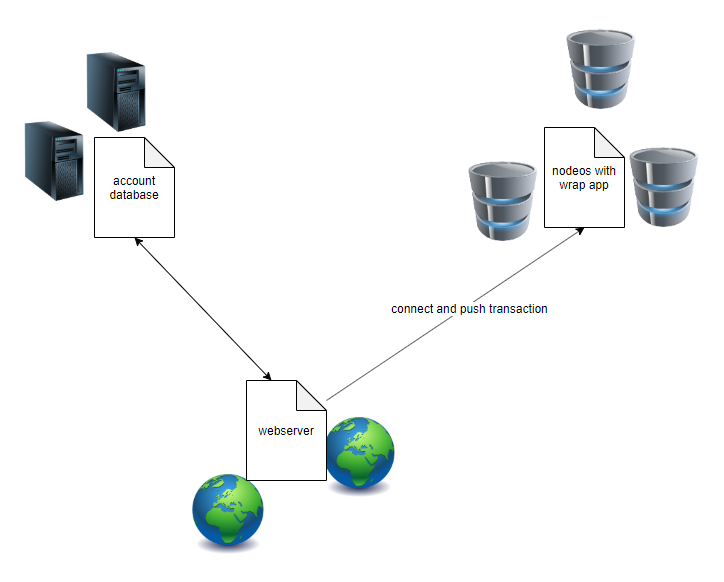
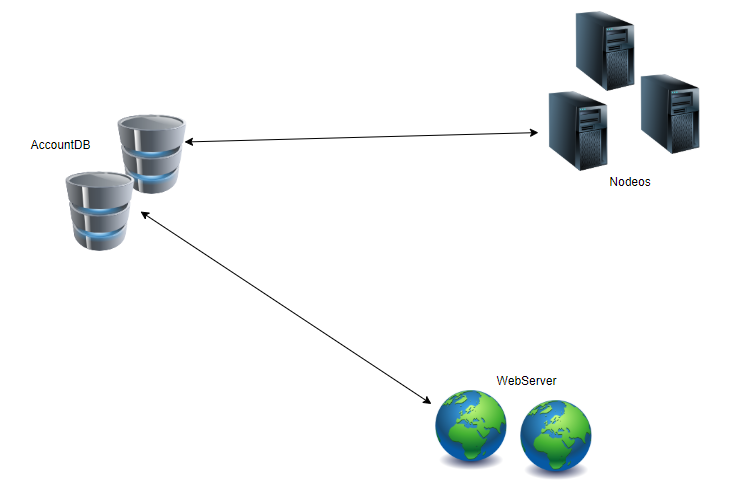
kjf

diff --git a/docs/design.md b/docs/design.md
@@ -1,3 +1,113 @@
+## 连接器
+连接器是一个独立的进程，它将帮助更新和维护资源定位表，并帮助调度客户端的连接。资源定位表包含Union中每个服务的所有信息。因为整个网络是动态的，所以这个文件也会随时间变化。连接器将帮助进行资源定位表的增、删、改、查。资源定位表将按IP、服务类型、端口、剩余连接、位置等描述服务。资源定位表内容如下：
+
+```
+resource_mains:    //主资源文件
+{
+    ip_x: {
+        ip:
+        server_type: []
+        remain_connections: []
+        score:
+        location:
+    }    
+}
+locations:   //下面的数据结构帮助更快的搜索资源
+{
+    location_x: {  //是该按国家进行划分吗？ 待定
+        ip:
+    }
+}
+
+scores: [1st ip, 2ed ip, 3rd ip, 4th ip, ...]  //前100个性能最好的主机
+
+server_types:
+{
+    type_x: [ip_x]
+}
+
+remainconnections:{
+    unremain: [],
+    remain10: [],
+    remain100: [],
+    remain1000: [],
+    remain10000: [],
+    unlimit: []
+}
+
+```
+
+连接器将自动选择前100个SOCRE最高的计算机作为主节点。score越高意味着电脑在各种操作中都很快。经过一段时间后，普通节点将随机选择一个主节点来更新其资源定位表（如果需要）。
+
+***删除失败的节点***
+
+有两种状况，一个是失效节点是主节点，另一个是失效节点是普通节点。
+
+*主节点故障*
+
+* 如果失败的节点是主节点，当普通节点周期性地请求其父节点维持心跳时（该节点先前连接的主节点是父节点），如果请求被阻止，该节点将选择另一个主节点并将被阻止的主节点（原 父节点）报告给所选的主节点，然后所选的主节点将检查这个被阻塞的主节点状态，并更新资源定位表。为了实现这一点，普通节点会将曾连接的主节点作为其父节点来维护。
+
+*普通节点故障*
+
+* 主节点应该维护一个包含其所有子节点及其最新连接时间的表。如果心跳时间超出范围，父节点将尝试连接此节点并进行检查。如果失败，删除它，更新资源定位表。
+
+***添加新节点***
+
+* 如果一个新节点想要加入网络，它必须至少知道这个网络的一个节点的地址（IP，端口）。首先，它连接到该地址，并检索资源定位表。其次，根据当前资源定位表选择一个主节点，并连接到主节点。最后，在主节点接收到这些信息后，它将更新资源定位表。
+
+***更新资源定位表***
+
+* 只有主节点可以更新资源定位表。当一个主节点的资源定位表更新后，它将广播到所有主节点，所有主节点进行更新。当一个主节点接收到一个主节点的更新广播时，必须检查更新的节点是否有效，如果一个主节点在1小时内广播10次无效的节点，该节点将被放入一个主节点黑名单中一天。如果一个正常的节点在1小时内重新连接（不稳定）10次，它将在1小时内被此网络阻止。
+
+***路由逻辑***
+
+* 假设一个主节点连接失败，它将被从主节点列表中删除。然后选择一个新节点添加到主节点列表中。首先，新的主节点将没有子节点，因此没有父节点的普通节点将首先选择子节点少的主节点连接。当所有主节点的子节点数量达到一个大致的平衡是，我们就要考虑到主节点与子节点的距离问题。因为子节点与主节点之间的通信是很频繁的，所有选择较近的节点做为主节点是很有必要的。
+
+* 主节点将有自己的容量。所有接收连接的主节点都应该保持某种平衡。应该有一个函数来计算主节点连接的中值点。连接首先遵循就近原则，然后再挑选链接数少的。假设我们有一个函数可以计算正常节点连接到的所有主节点的效率。或者说是，延误率或损失率或它们两者的综合的一个评分，这个评分越低越好或越大越好。这时普通节点应该总是选择最好的主节点连接。算法将是：
+
+```
+choose_best_main_node(current_node):
+    efficients = []
+    for node in main_node_list:
+        efficents.push(comprehensive_efficient(current_node, node) )
+    index = maxIndexOf(efficients)
+    return efficients[index]
+```
+
+### 连接器流程设计
+`增  删   改   查`
+
+`选择100个资源最优的节点作为主节点`
+
+`每个主节点有n个子节点，每个子节点选取连接最快的主节点作为主节点。主节点才有增删改的权力。`
+
+流程 1: 
+* 初始化节点， 加载配置文件，获取本机的配置信息、网络宽带等信息，配置文件描述了服务类型、服务端口等等信息
+
+
+流程 2:  函数  connect_2_network
+* 检查自身，获取相关信息  ...正在做
+* 连接上union网络，获取网络上的资源配置表   ... 正在做
+* 选择合适的主节点连接，进一步获取信息
+* 看看自己是否可以作为主节点
+
+流程3:
+* 周期性的上传本节点信息到自己的主节点
+* 周期性与主节点同步资源定位表信息
+* 如果主节点阻塞， 更换自己的主节点，并且告诉新的主节点 原主节点阻塞
+
+流程4:
+* 主节点检查自己的子节点心跳，剔除不活跃的子节点，并向其它主节点同步剔除信息
+
+流程5:
+* 主节点之间交互信息
+
+流程6: 
+* 删除老的主节点，选择新的主节点
+
+
+
+
 ## 交易行的设计（法币）
 ----
 **难点**
@@ -15,26 +125,19 @@
 
 主网站 = {数据库管理网站、历史币价采集网站、 网页提供网站（用户接口）、区块链交互端网站}
 
-## union官网与区块链的交互
-
-在区块链中，keosd，cleos，nodeos的关系如下图：
-
-<img src="./imgs/eos_re.png" />
-
-这三者关系的说明在eos探秘中有一些提及，这里不再赘述。类似的，我做出下面的设计来完成union与nodeos的交互：
+在EOS系统中，最主要的是Nodeos，Cleos 与 Keosd都是辅助功能。在Union系统中，AccountDB其实相当于同时充当了Cleos与Keosd的功能。AccountDB、Nodeos、Webserver的关系如下图所示： 
 
 <img src="./imgs/union-web-nodeos.png" />
 
-webserver 相当于cleos， account database相当于keosd。
+AccountDB储存了大量用户的私钥信息，所以私钥不适合进行网络传输，而应该直接在本地进行签名。所以，交易的流程大概是这样的： 用户登录WebServer，填写交易信息，交易推送到AccountDB进行签名，此时如果用户的登录信息正确，则找到正确的私钥进行签名。AccountDB再调用Nodeos的RPC Api接口，将数据写入到区块链上。
 
-### Nodeos With Wrap
+目前暂时只提供这一条线吧，考虑再三，还是要把WebServer的代码用javascript，为了方便以后的扩展。因为理论上，用户也可以直接保存自己的私钥信息，而不是借助AccountDB。也就是说应该有一条线是WebServer直接与Nodeos交互的，但这是以后再扩展的工作了。
 
-在运行nodeos的主机上会运行一个wrap程序用于直接与nodeos交互，交互方式是通过nodeos提供的<a href="https://developers.eos.io/eosio-nodeos/reference">rpc api</a>. wrap程序一方面实现connector的一些功能，另一方面要解密webserver的消息从而获取与nodeos交互的有效信息。
-
-
-### Account DataBase
+### Account DataBase 
 
 数据库服务部分是由多台主机构成，当然不会比webserver的主机多。每台主机都运行数据库服务，同时也有一个wrap，实现connector功能，还实现与webserver的交互。这个数据库主要保存了账号的私钥部分，当然保存方式是把私钥截断，并与很多无效数据进行混淆。只有webserver提供了可靠的信息，才能从浩如烟海的数据堆中拼凑出正确的私钥。因此，对Account Database的攻击是无效的。
+
+AccountDB集成了Nodeos的RPC Api，也就是在AccountDB里直接会进行交易签名，然后对Nodeos进行远程调用，目前采用的是nodejs，也就是采用官方的SDK， eosjs。
 
 ### WebServer
 用户登录到webserver后，要想使用钱包转账等功能，会被要求提供另一个账号和密码，该密码是在Account DataBase中找到正确信息的关键。一般的，webserver的常规数据库根据用户账号密码会保存一部分的Account Database中的私钥获取线索。另一部分需要用户输入。

diff --git a/docs/readme.md b/docs/readme.md
@@ -1,24 +1,3 @@
-# 前期配置
-
-## git 安装
-
-* 简要的说 git 的作用： 
-
-    我们在开发代码时，想象一个大一点的项目，每天就会都有一些更改。假如某一天改着改着突然发现出现了一个灾难性的问题。这时候一般就会想着和原先没有这个大问题时候的代码做一个对比，发现改动的地方，查找引发这个灾难的地方。
-
-    git 就提供了这样的功能，git在每次提交（commit）代码的时候，都会自己隐藏的建立代码的版本信息，每次commit就是一个版本。然后就可以用git进行各种版本对比，版本回退等等工作。
-
-    还有，就是在多人开发一个项目的时候，git也会帮助处理开放中的改动冲突，对代码进行合并等。举例说，A开发sk.py 文件， B开发sjgskjg.js 文件，他们提交到同一个地方的更改时，git就帮助合并他们的更改，保证项目都是最新的。
-
-<a href="https://www.jianshu.com/p/414ccd423efc">git 安装教程</a>
-
-<a href="https://www.cnblogs.com/tugenhua0707/p/4050072.html">git 使用教程</a>
-
-安装完成后，就可以用git bash 里的 ssh 命令登录我们的远程服务了
-登录命令是 ssh root@78.141.190.51
-之后输入密码就行。
-
-
 # Union 的设计逻辑
 
 ## 定义
@@ -53,112 +32,7 @@ Union采用的是EOS.IO系统，考虑到为了维持用户的可能性增长，
 
 从设计上，区块链暂时只需要搭建起来接入整套系统就行，后继的开发会需要但是不是当前阶段所必须的，当前需要的功能eos大都自带了。其它的功能更多的主要是由官网提供，包括账号登录，基本信息展示。官网也是分布式的，没有区块链那么“分布”，官网和区块链的关系可以认为区块链只是实现了官网当中“管钱”的功能。
 
-## 连接器
-连接器是一个独立的进程，它将帮助更新和维护资源定位表，并帮助调度客户端的连接。资源定位表包含Union中每个服务的所有信息。因为整个网络是动态的，所以这个文件也会随时间变化。连接器将帮助进行资源定位表的增、删、改、查。资源定位表将按IP、服务类型、端口、剩余连接、位置等描述服务。资源定位表内容如下：
 
-```
-resource_mains:    //主资源文件
-{
-    ip_x: {
-        ip:
-        server_type: []
-        remain_connections: []
-        score:
-        location:
-    }    
-}
-locations:   //下面的数据结构帮助更快的搜索资源
-{
-    location_x: {  //是该按国家进行划分吗？ 待定
-        ip:
-    }
-}
-
-scores: [1st ip, 2ed ip, 3rd ip, 4th ip, ...]  //前100个性能最好的主机
-
-server_types:
-{
-    type_x: [ip_x]
-}
-
-remainconnections:{
-    unremain: [],
-    remain10: [],
-    remain100: [],
-    remain1000: [],
-    remain10000: [],
-    unlimit: []
-}
-
-```
-
-连接器将自动选择前100个SOCRE最高的计算机作为主节点。score越高意味着电脑在各种操作中都很快。经过一段时间后，普通节点将随机选择一个主节点来更新其资源定位表（如果需要）。
-
-***删除失败的节点***
-
-有两种状况，一个是失效节点是主节点，另一个是失效节点是普通节点。
-
-*主节点故障*
-
-* 如果失败的节点是主节点，当普通节点周期性地请求其父节点维持心跳时（该节点先前连接的主节点是父节点），如果请求被阻止，该节点将选择另一个主节点并将被阻止的主节点（原 父节点）报告给所选的主节点，然后所选的主节点将检查这个被阻塞的主节点状态，并更新资源定位表。为了实现这一点，普通节点会将曾连接的主节点作为其父节点来维护。
-
-*普通节点故障*
-
-* 主节点应该维护一个包含其所有子节点及其最新连接时间的表。如果心跳时间超出范围，父节点将尝试连接此节点并进行检查。如果失败，删除它，更新资源定位表。
-
-***添加新节点***
-
-* 如果一个新节点想要加入网络，它必须至少知道这个网络的一个节点的地址（IP，端口）。首先，它连接到该地址，并检索资源定位表。其次，根据当前资源定位表选择一个主节点，并连接到主节点。最后，在主节点接收到这些信息后，它将更新资源定位表。
-
-***更新资源定位表***
-
-* 只有主节点可以更新资源定位表。当一个主节点的资源定位表更新后，它将广播到所有主节点，所有主节点进行更新。当一个主节点接收到一个主节点的更新广播时，必须检查更新的节点是否有效，如果一个主节点在1小时内广播10次无效的节点，该节点将被放入一个主节点黑名单中一天。如果一个正常的节点在1小时内重新连接（不稳定）10次，它将在1小时内被此网络阻止。
-
-***路由逻辑***
-
-* 假设一个主节点连接失败，它将被从主节点列表中删除。然后选择一个新节点添加到主节点列表中。首先，新的主节点将没有子节点，因此没有父节点的普通节点将首先选择子节点少的主节点连接。当所有主节点的子节点数量达到一个大致的平衡是，我们就要考虑到主节点与子节点的距离问题。因为子节点与主节点之间的通信是很频繁的，所有选择较近的节点做为主节点是很有必要的。
-
-* 主节点将有自己的容量。所有接收连接的主节点都应该保持某种平衡。应该有一个函数来计算主节点连接的中值点。连接首先遵循就近原则，然后再挑选链接数少的。假设我们有一个函数可以计算正常节点连接到的所有主节点的效率。或者说是，延误率或损失率或它们两者的综合的一个评分，这个评分越低越好或越大越好。这时普通节点应该总是选择最好的主节点连接。算法将是：
-
-```
-choose_best_main_node(current_node):
-    efficients = []
-    for node in main_node_list:
-        efficents.push(comprehensive_efficient(current_node, node) )
-    index = maxIndexOf(efficients)
-    return efficients[index]
-```
-
-### 连接器流程设计
-`增  删   改   查`
-
-`选择100个资源最优的节点作为主节点`
-
-`每个主节点有n个子节点，每个子节点选取连接最快的主节点作为主节点。主节点才有增删改的权力。`
-
-流程 1: 
-* 初始化节点， 加载配置文件，获取本机的配置信息、网络宽带等信息，配置文件描述了服务类型、服务端口等等信息
-
-
-流程 2:  函数  connect_2_network
-* 检查自身，获取相关信息  ...正在做
-* 连接上union网络，获取网络上的资源配置表   ... 正在做
-* 选择合适的主节点连接，进一步获取信息
-* 看看自己是否可以作为主节点
-
-流程3:
-* 周期性的上传本节点信息到自己的主节点
-* 周期性与主节点同步资源定位表信息
-* 如果主节点阻塞， 更换自己的主节点，并且告诉新的主节点 原主节点阻塞
-
-流程4:
-* 主节点检查自己的子节点心跳，剔除不活跃的子节点，并向其它主节点同步剔除信息
-
-流程5:
-* 主节点之间交互信息
-
-流程6: 
-* 删除老的主节点，选择新的主节点
 
 ## 服务
 服务可以分为“官方”指定的一些服务，还有一些私人架设的服务，当然之后要讨论的都是*官方服务*。也可以按照提供的服务类型来进行划分，例如提供某些特定网站的网站服务，提供身份识别与财务功能的区块链服务等。

diff --git a/docs/help.md b/docs/help.md
@@ -1,8 +1,21 @@
-## 目录结构
-* config/server.json 服务器初始化需要的配置信息
-* node.py 节点 增 删 查 改 的主逻辑控制
-* server.py  socket相关的逻辑
-* ping.py 实现ping
-* speedtest.py  对本机进行网络性能测试
+# 前期配置
 
-<a src="http://www.52im.net/thread-542-1-1.html">p2p hold</a>
+## git 安装
+
+* 简要的说 git 的作用： 
+
+    我们在开发代码时，想象一个大一点的项目，每天就会都有一些更改。假如某一天改着改着突然发现出现了一个灾难性的问题。这时候一般就会想着和原先没有这个大问题时候的代码做一个对比，发现改动的地方，查找引发这个灾难的地方。
+
+    git 就提供了这样的功能，git在每次提交（commit）代码的时候，都会自己隐藏的建立代码的版本信息，每次commit就是一个版本。然后就可以用git进行各种版本对比，版本回退等等工作。
+
+    还有，就是在多人开发一个项目的时候，git也会帮助处理开放中的改动冲突，对代码进行合并等。举例说，A开发sk.py 文件， B开发sjgskjg.js 文件，他们提交到同一个地方的更改时，git就帮助合并他们的更改，保证项目都是最新的。
+
+<a href="https://www.jianshu.com/p/414ccd423efc">git 安装教程</a>
+
+<a href="https://www.cnblogs.com/tugenhua0707/p/4050072.html">git 使用教程</a>
+
+安装完成后，就可以用git bash 里的 ssh 命令登录我们的远程服务了
+登录命令是 ssh root@78.141.190.51
+之后输入密码就行。
+
+
